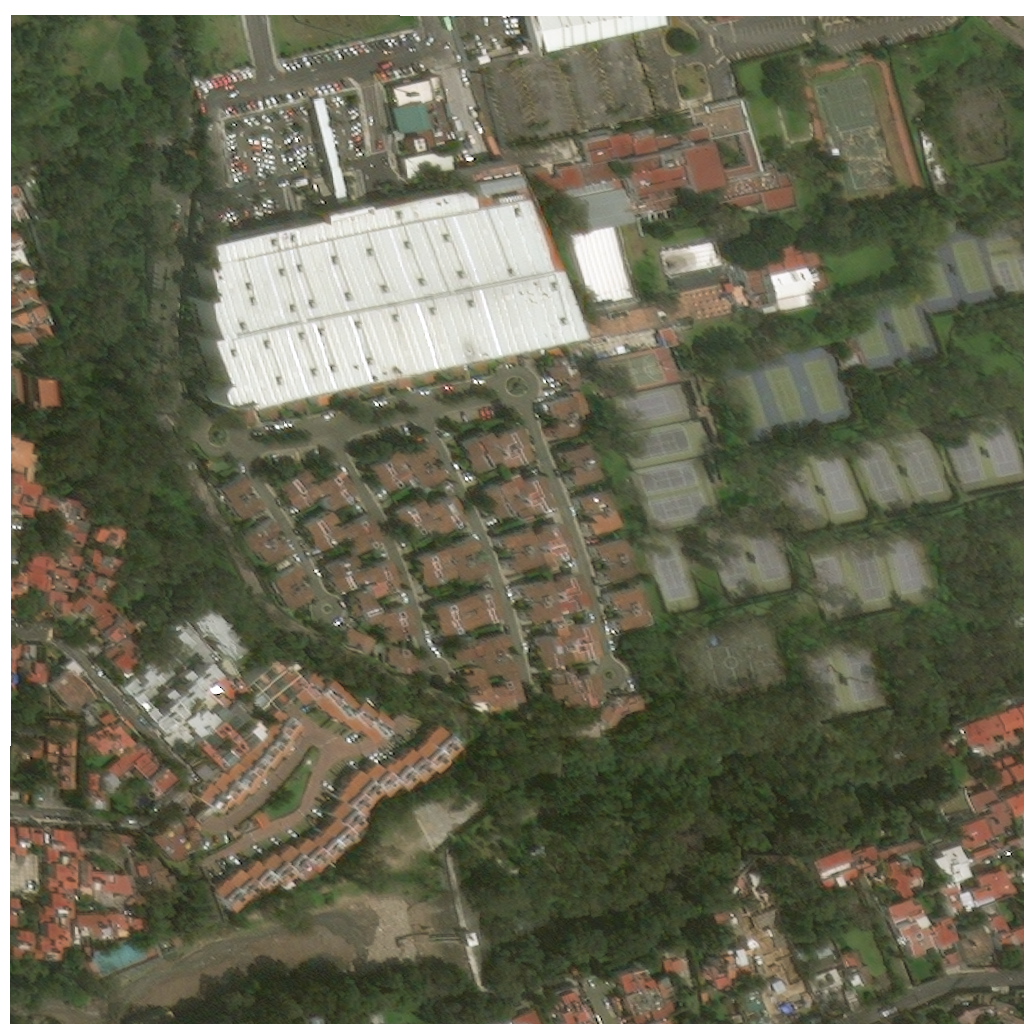
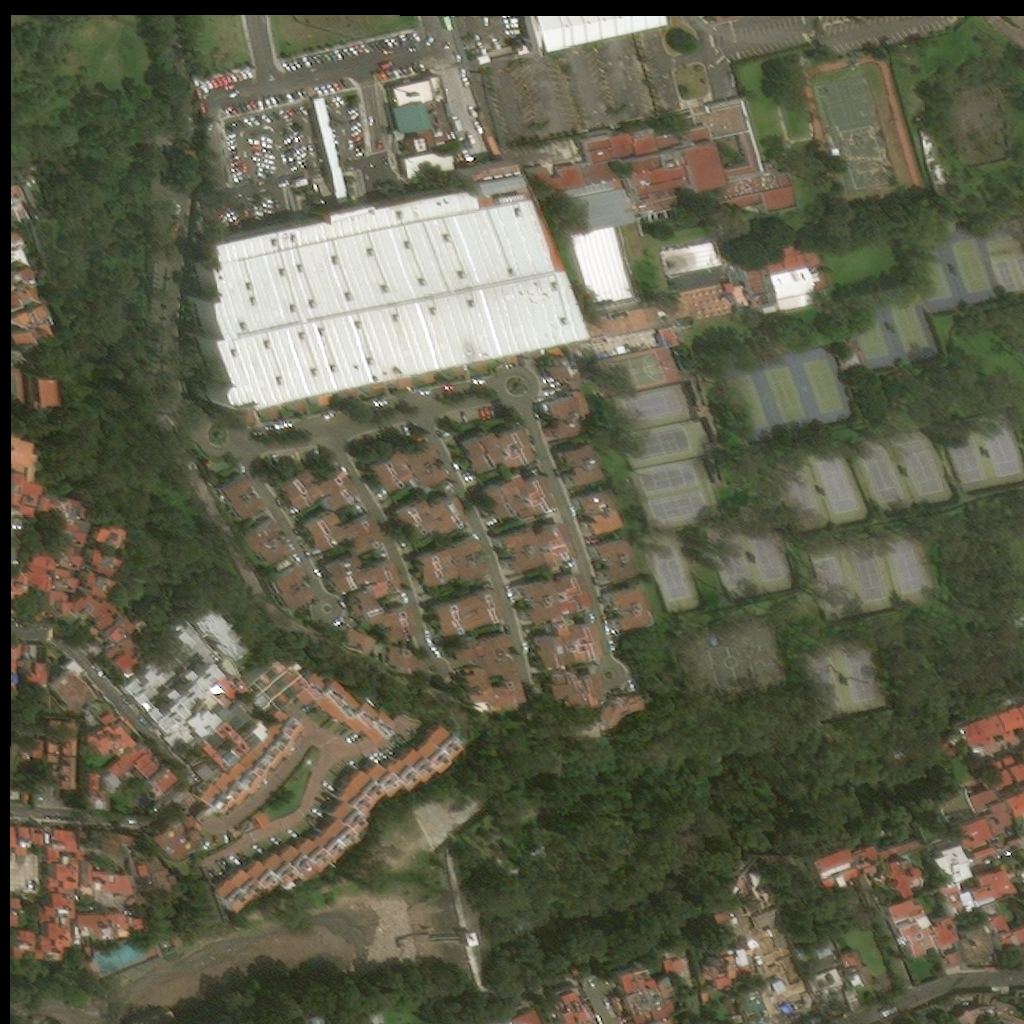
Added POST response, display output image and damaged area calculation

Changed region(s): [[0.0, 0.0, 1.0, 1.0]]

diff --git a/disaster-assessment-app/src/components/sidebar/Sidebar.js b/disaster-assessment-app/src/components/sidebar/Sidebar.js
@@ -2,52 +2,55 @@
 import axios from 'axios';
  
 import React,{Component} from 'react';
- 
+
 class App extends Component {
-  
+
+    // constructor() {
+    //   super();
+    //   this.state = {
+    //     model: ''
+    //   };
+    // }
+
     state = {
- 
-      // Initially, no file is selected
-      selectedFile: null
+      selectedFile: null,
+      model: null
     };
     
-    // On file select (from the pop up)
     onFileChange = event => {
-    
-      // Update the state
       this.setState({ selectedFile: event.target.files[0] });
-    
     };
     
-    // On file upload (click the upload button)
+    onRadioChange = event => {
+      this.setState({model: event.target.value})
+    }
+
     onFileUpload = () => {
-    
-      // Create an object of formData
       const formData = new FormData();
-    
-      // Update the formData object
       formData.append(
         "myFile",
         this.state.selectedFile,
         this.state.selectedFile.name
       );
-    
-      // Details of the uploaded file
-      console.log(this.state.selectedFile);
+
+      formData.append(
+        "selectedModel",
+        this.state.model
+      );
+
       axios.post("http://localhost:5000/test", formData)
       .then(response => {
-        console.log(response)
-        // response --> image
+        this.props.changeImage(response.data.url);
+        this.props.changeDamageVal(response.data.areaDamage)
       } )
       .catch(error => {
+        console.log("H");
         console.log(error)
       })
     };
     
     fileData = () => {
-    
       if (this.state.selectedFile) {
-         
         return (
           <div>
             {this.state.selectedFile && <ImageThumb image={this.state.selectedFile} />}
@@ -64,10 +67,7 @@ class App extends Component {
     };
     
     render() {
-    
       return (
-
-        
         <div>
             <div className="sidebar__title" style={{padding: '20px', paddingTop: '130px'}}>
                   <div className="sidebar__image">
@@ -77,6 +77,32 @@ class App extends Component {
           {this.fileData()}
           </div>
                 <input type="file" onChange={this.onFileChange} style={{paddingLeft: '20px', alignContent: "center", justifyContent: "center", display:"flex"}} />
+                <ul>
+                  <li>
+                    <label>
+                      <input
+                        type="radio"
+                        value="earthquake"
+                        checked={this.state.model === "earthquake"}
+                        onChange={this.onRadioChange}
+                      />
+                      <span>Earthquake Damage</span>
+                    </label>
+                  </li>
+                  <li>
+                    <label>
+                      <input
+                        type="radio"
+                        value="fire"
+                        checked={this.state.model === "fire"}
+                        onChange={this.onRadioChange}
+                      />
+                      <span>Fire Detection</span>
+                    </label>
+                  </li>
+                </ul>
+
+
                 <div className="App" style={{paddingLeft: '20px', alignContent: "center", justifyContent: "center", display:"flex"}}>
                       <button type="button" id = "assess" onClick={this.onFileUpload} style={{backgroundColor:"#fff000", padding: '10px', borderRadius: '12px', cursor: 'pointer', fontWeight: 'bold', padding: '10px 15px', textAlign: 'center', transition: '100ms', maxWidth:'180px', boxSizing:'border-box', border: '0', fontSize:'16px', userSelect:'none', WebkitUserSelect:'none', touchAction:'manipulation',marginTop:'15px'}}> ASSESS </button>
                </div> 

diff --git a/disaster-assessment-app/src/components/main/Main.js b/disaster-assessment-app/src/components/main/Main.js
@@ -9,7 +9,8 @@ import { e_array } from "../sidebar/Sidebar";
 
 
 import Chart from "../charts/Chart";
-const Main=()=>{
+const Main=(props)=>{
+    console.log(props);
     return(
         <main>
             <div className="main__container">
@@ -24,19 +25,6 @@ const Main=()=>{
 
                 <div className="charts">
                    
-                    
-                    {/* <div className="charts__right">
-                        <div className="charts__right__title">
-                            <div>
-                                <h1>Original Image</h1>
-                            </div>
-                        </div>
-
-                        <div className="charts__right__cards">
-                        <img src={hello}></img>
-                        </div>
-                    </div> */}
-
                     <div className="charts__right">
                         <div className="charts__left__title">
                             <div>
@@ -44,7 +32,7 @@ const Main=()=>{
                             </div>
                         </div>
                         <div className="charts__right__cards">
-                        <img src={hello} style={{width:'480px', height:'320px', padding: '20px'}}></img>
+                        <img src={props.image==null?hello:props.image} style={{width:'480px', height:'320px', padding: '20px'}} id="img"></img>
                         </div>
                         
                         <div className="charts__right__colors">
@@ -62,7 +50,7 @@ const Main=()=>{
                         <i className="fa fa-users fa-2x text-lightblue"></i>
                         <div className="card_inner">
                             <p className="text-primary-p">Area Damage (%)</p>
-                            <span className="font-bold text-title">12%</span>
+                            <span className="font-bold text-title">{props.areaDamage} %</span>
                         </div>
                     </div>
                     <br/>
@@ -73,15 +61,8 @@ const Main=()=>{
                             <span className="font-bold text-title">3.3</span>
                         </div>
                     </div>
-                    
                 </div>
-
-
                 </div>
-
-           
-
-
             </div>
         </main>
     )

diff --git a/disaster-assessment-app/src/App.js b/disaster-assessment-app/src/App.js
@@ -7,6 +7,8 @@ import Main from "./components/main/Main";
 
 const Dashboard= () => {
   const [sidebarOpen,setSidebarOpen]=useState(false);
+  const [image,setImage]=useState(null);
+  const [areaDamage, setAreaDamage] = useState(null);
   const openSidebar = () => {
     setSidebarOpen(true);
   };
@@ -16,8 +18,8 @@ const Dashboard= () => {
   return (
     <div className="container">
      
-      <Main/>
-      <Sidebar sidebarOpen={sidebarOpen} closeSidebar={closeSidebar}/>
+      <Main image={image} areaDamage={areaDamage}/>
+      <Sidebar sidebarOpen={sidebarOpen} closeSidebar={closeSidebar} name="H" changeImage={setImage} changeDamageVal = {setAreaDamage}/>
     </div>
   );
 }

diff --git a/disaster-assessment-app/src/components/sidebar/Sidebar.css b/disaster-assessment-app/src/components/sidebar/Sidebar.css
@@ -235,3 +235,26 @@
 .select-file{
     padding: 10px;
 }
+
+main{
+    background:white;
+    grid-area: main;
+    overflow-y:auto;
+    height:max-content;
+}
+
+.main__container{
+    padding:20px 55px;
+    flex-direction: row;
+}
+
+.main__title{
+    display:flex;
+    align-items:center;
+}
+
+.main__title > img{
+    max-height:100px;
+    object-fit:contain;
+    margin-right:20px;
+}

diff --git a/disaster-assessment-app/src/components/main/Main.css b/disaster-assessment-app/src/components/main/Main.css
@@ -65,7 +65,7 @@ main{
     display:grid;
     grid-template-columns: 1fr 1fr;
     gap:30px;
-    margin-top: 45px;
+    margin-top: 22px;
 }
 
 .charts__left{

diff --git a/disaster-assessment-app/backend/app.py b/disaster-assessment-app/backend/app.py
@@ -1,28 +1,49 @@
+from urllib import response
 from flask import Flask, json, jsonify, request
 from flask_cors import CORS
 from predict import pred
 import flask
-# from dbms.dict_db.model import Model
+import numpy as np
+import cv2
+import matplotlib.pyplot as plt
 
 app = Flask(__name__)
 CORS(app)   
-# model = Model()
 
 @app.route('/test', methods = ["POST"])
 def test_image():
-    print(request.data)
-    print("Working!")
-    f = request.files['myFile']
-    f.save(f.filename)
-    # pred(f.filename)
-    # return {"YAY":"YAYY"}, 200
 
-    return flask.send_file(f.filename), 200
+    f = request.files['myFile']
+    # f.save(f.filename)
+    
+    # Resize accd to model requirements
+    image = cv2.imread(f.filename)
+    print(image.shape)
+    image = cv2.resize(image,(1024,1024))
+    cv2.imwrite(f.filename, image)
+
+    
+    model = request.form['selectedModel']
+
+    if model == 'fire':
+        # Call Fire detection model's predict!
+        pass
+    else:
+        pred(f.filename)  #earthquake
+
+    # % Damage Calculation
+    
+    image = cv2.imread('outputs/'+f.filename)
+    mask = cv2.inRange(image, (0, 0, 50), (50, 50,255))
+    number_of_white_pix = np.sum(mask == 255)
+    area_damage = round((number_of_white_pix/mask.size)*100,2)
+    print("Area Damaged: ", area_damage, ' %')
+   
+    return flask.jsonify(status = 'success', url=f"http://localhost:5000/files?name={'outputs/'+f.filename}", areaDamage = area_damage), 200
+
+@app.route('/files',methods=['GET'])
+def send_image():
+    return flask.send_file(request.args.get("name"))
 
 if __name__ == "__main__":
     app.run(host = 'localhost',port=5000, debug=True)
-
-
-# to-d0
-# Resize --> 1024*1024
-#Directly pass to model!
